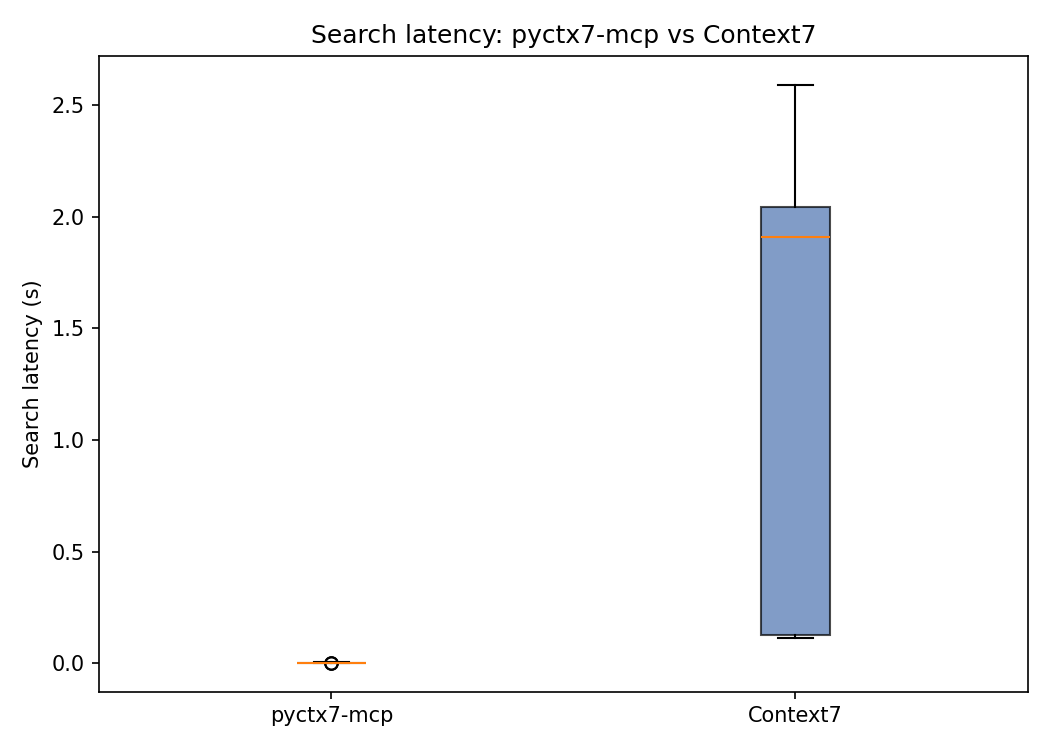
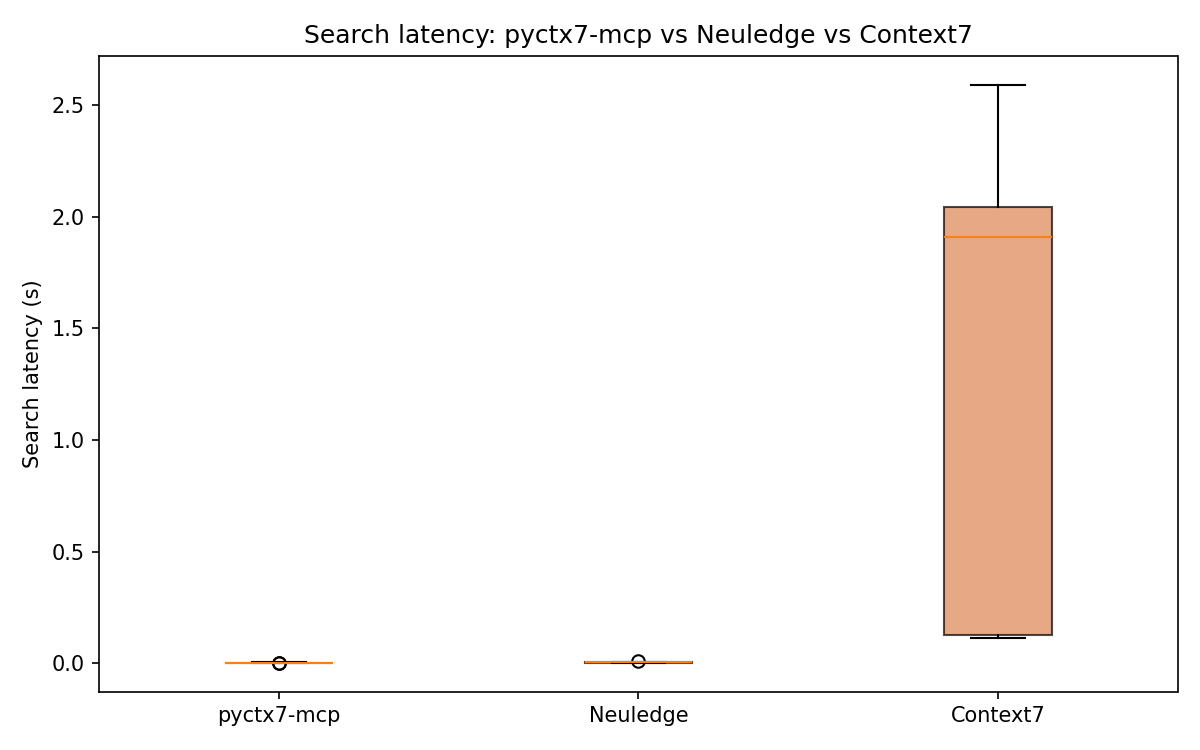
fix(charts): update all charts for 3-way comparison (pyctx7 vs Neuledge vs Context7)
- Added Neuledge color (#55A868) and label to all chart functions
- Boxplot, Recall@k, MRR@k now dynamically include all sources present
- Titles update automatically based on which systems are in the data
- Regenerated all PNGs with 3 lines/boxes

diff --git a/benchmarks/benchmarks/charts.py b/benchmarks/benchmarks/charts.py
@@ -13,7 +13,16 @@ import matplotlib.pyplot as plt
 import pandas as pd
 
 K_VALUES = [1, 3, 5, 10, 20]
-_SOURCE_COLORS = {"pyctx7": "#4C72B0", "context7": "#DD8452"}
+_SOURCE_COLORS = {
+    "pyctx7": "#4C72B0",
+    "context7": "#DD8452",
+    "neuledge": "#55A868",
+}
+_SOURCE_LABELS = {
+    "pyctx7": "pyctx7-mcp",
+    "context7": "Context7",
+    "neuledge": "Neuledge",
+}
 
 
 def plot_indexing_times(index_df: pd.DataFrame, out_dir: Path) -> Path:
@@ -41,7 +50,7 @@ def plot_indexing_times(index_df: pd.DataFrame, out_dir: Path) -> Path:
 
 
 def plot_search_latency_boxplot(search_df: pd.DataFrame, out_dir: Path) -> Path:
-    """Box plot of search latency distribution: pyctx7 vs Context7.
+    """Box plot of search latency distribution across all sources.
 
     Args:
         search_df: DataFrame with columns [elapsed_s, source].
@@ -50,16 +59,22 @@ def plot_search_latency_boxplot(search_df: pd.DataFrame, out_dir: Path) -> Path:
     Returns:
         Path to saved PNG.
     """
-    sources = ["pyctx7", "context7"]
+    sources = [s for s in ["pyctx7", "neuledge", "context7"] if s in search_df["source"].values]
     groups = [
         search_df.loc[search_df["source"] == src, "elapsed_s"].dropna().tolist()
         for src in sources
     ]
-    fig, ax = plt.subplots(figsize=(7, 5))
-    ax.boxplot(groups, labels=["pyctx7-mcp", "Context7"], patch_artist=True,
-               boxprops=dict(facecolor="#4C72B0", alpha=0.7))
+    labels = [_SOURCE_LABELS.get(s, s) for s in sources]
+    colors = [_SOURCE_COLORS.get(s, "#999999") for s in sources]
+
+    fig, ax = plt.subplots(figsize=(8, 5))
+    bp = ax.boxplot(groups, labels=labels, patch_artist=True)
+    for patch, color in zip(bp["boxes"], colors):
+        patch.set_facecolor(color)
+        patch.set_alpha(0.7)
     ax.set_ylabel("Search latency (s)")
-    ax.set_title("Search latency: pyctx7-mcp vs Context7")
+    title = "Search latency: " + " vs ".join(labels)
+    ax.set_title(title)
     fig.tight_layout()
     out = out_dir / "search_latency_boxplot.png"
     fig.savefig(out, dpi=150)
@@ -78,13 +93,19 @@ def plot_recall_at_k(search_df: pd.DataFrame, out_dir: Path) -> Path:
         Path to saved PNG.
     """
     fig, ax = plt.subplots(figsize=(8, 5))
-    for src in search_df["source"].unique():
+    sources = [s for s in ["pyctx7", "neuledge", "context7"] if s in search_df["source"].values]
+    for src in sources:
         subset = search_df[search_df["source"] == src]
         means = [subset[f"recall_at_{k}"].mean() for k in K_VALUES]
-        ax.plot(K_VALUES, means, marker="o", label=src, color=_SOURCE_COLORS.get(src))
+        ax.plot(
+            K_VALUES, means, marker="o",
+            label=_SOURCE_LABELS.get(src, src),
+            color=_SOURCE_COLORS.get(src),
+        )
     ax.set_xlabel("k")
     ax.set_ylabel("Mean Recall@k")
-    ax.set_title("Recall@k: pyctx7-mcp vs Context7")
+    title = "Recall@k: " + " vs ".join(_SOURCE_LABELS.get(s, s) for s in sources)
+    ax.set_title(title)
     ax.set_xticks(K_VALUES)
     ax.set_ylim(0, 1.05)
     ax.legend()
@@ -106,13 +127,19 @@ def plot_mrr_at_k(search_df: pd.DataFrame, out_dir: Path) -> Path:
         Path to saved PNG.
     """
     fig, ax = plt.subplots(figsize=(8, 5))
-    for src in search_df["source"].unique():
+    sources = [s for s in ["pyctx7", "neuledge", "context7"] if s in search_df["source"].values]
+    for src in sources:
         subset = search_df[search_df["source"] == src]
         means = [subset[f"mrr_at_{k}"].mean() for k in K_VALUES]
-        ax.plot(K_VALUES, means, marker="s", label=src, color=_SOURCE_COLORS.get(src))
+        ax.plot(
+            K_VALUES, means, marker="s",
+            label=_SOURCE_LABELS.get(src, src),
+            color=_SOURCE_COLORS.get(src),
+        )
     ax.set_xlabel("k")
     ax.set_ylabel("Mean MRR@k")
-    ax.set_title("MRR@k: pyctx7-mcp vs Context7")
+    title = "MRR@k: " + " vs ".join(_SOURCE_LABELS.get(s, s) for s in sources)
+    ax.set_title(title)
     ax.set_xticks(K_VALUES)
     ax.set_ylim(0, 1.05)
     ax.legend()
